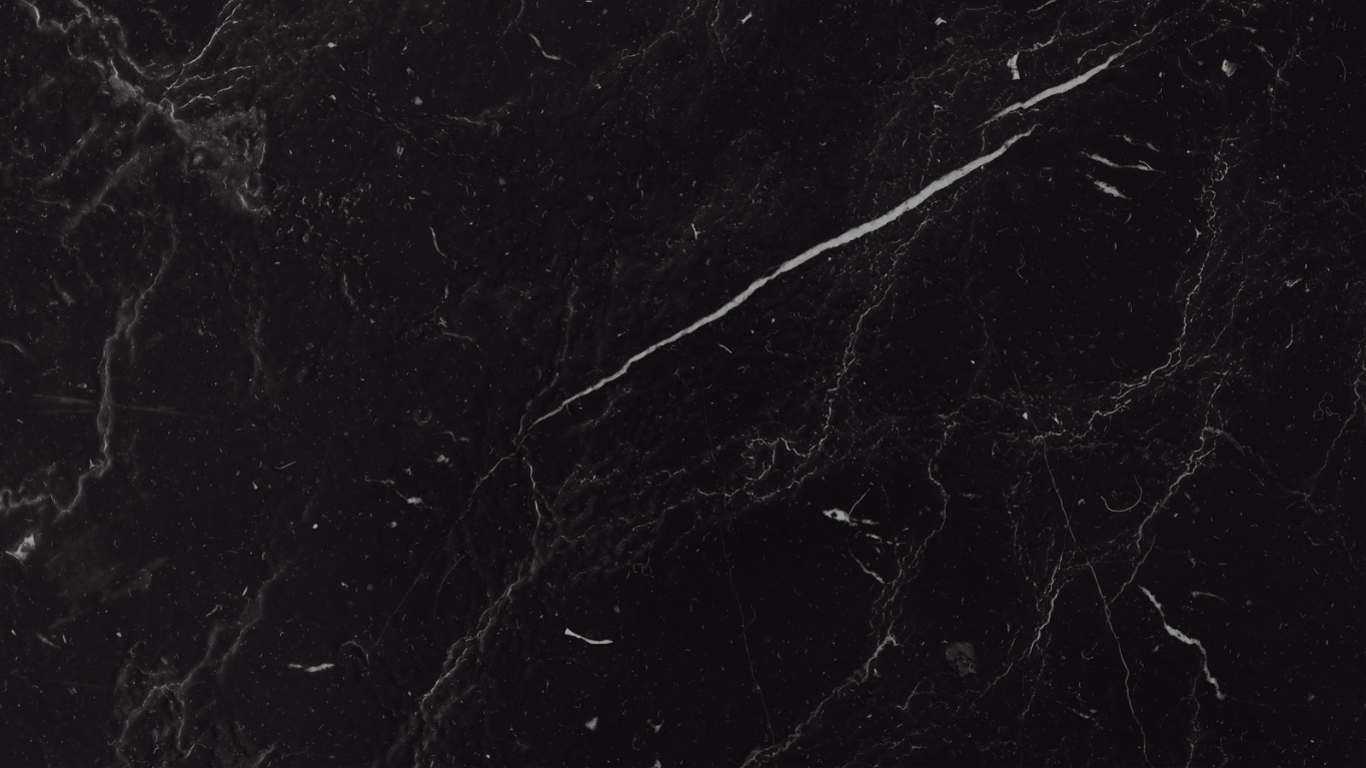
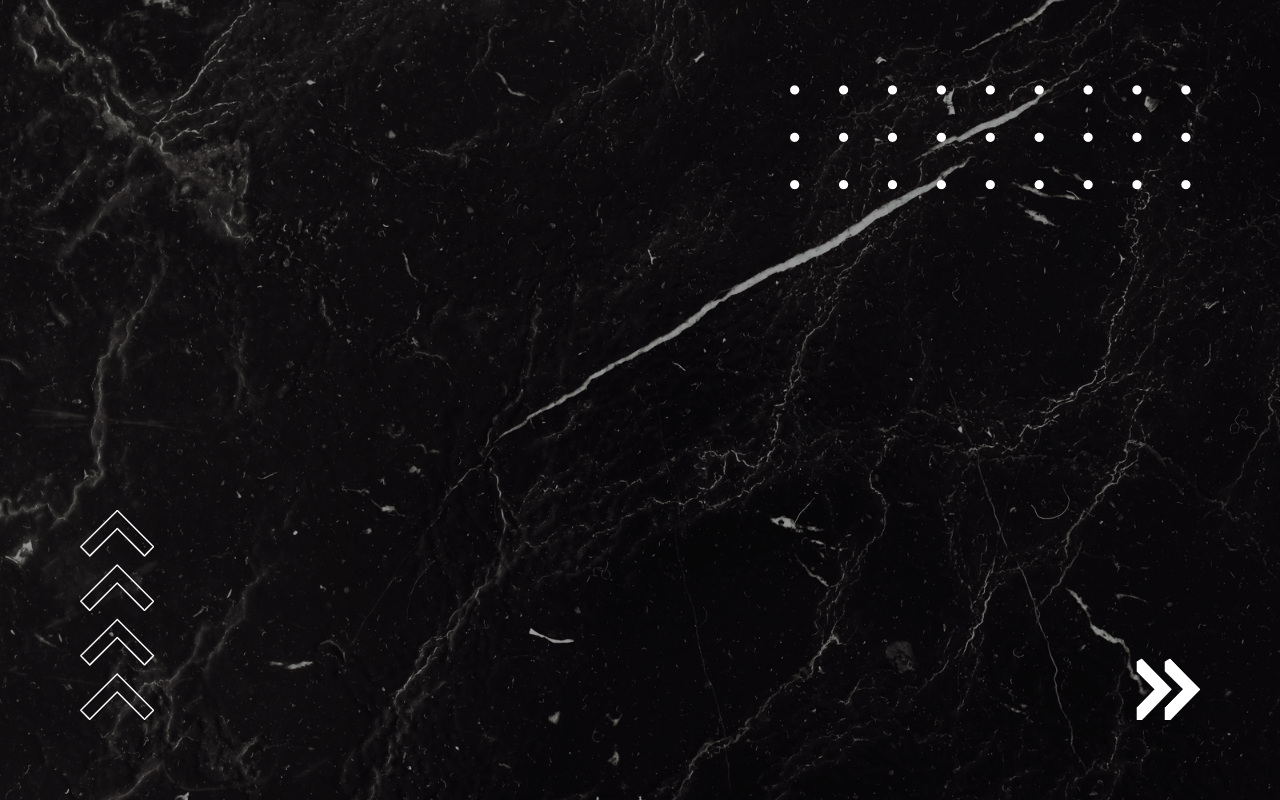
responsive establecido

diff --git a/src/components/WelcomeMessage.jsx b/src/components/WelcomeMessage.jsx
@@ -1,10 +1,12 @@
 import crossIcon from "../assets/images/cross.png";
+import ubicationIcon from "../assets/images/ubication.png";
 
 const WelcomeMessage = () => {
   return (
-    <header>
+    <header className="position-relative">
+      <div className="position-absolute top-50 start-50 translate-middle w-100">
       <div className="mt-4">
-        <div className="d-flex justify-content-center">
+        <div className="d-flex justify-content-center align-items-center">
           <img
             src={crossIcon}
             className="cross-icon rounded-3 d-block"
@@ -13,11 +15,21 @@ const WelcomeMessage = () => {
         </div>
         <h1 className="title fw-bold">Iglesia Vida Abundante</h1>
       </div>
-      <h2>
+      <h2 className="fs-3">
         &quot;Yo (Jesús) he venido para que tengan vida, y para que la tengan en
         abundancia&quot;
       </h2>
-      <h2>Juan 10:10 (la Biblia)</h2>
+      <h2 className="fs-4">Juan 10:10 (la Biblia)</h2>
+      <h3 className="church-description text-uppercase">
+        Iglesia cristiana evangélica
+      </h3>
+      <div className="d-flex justify-content-center align-items-center">
+        <img src={ubicationIcon} className="ubication-icon" alt="" />
+        <h4 className="mb-0 ubication-text fw-lighter">
+          México 659, San Miguel de Tucumán, Tucumán, Argentina
+        </h4>
+      </div>
+      </div>
     </header>
   );
 };

diff --git a/src/components/Information.jsx b/src/components/Information.jsx
@@ -1,21 +1,9 @@
-import ubicationIcon from "../assets/images/ubication.png";
 import communityIcon from "../assets/images/community.png";
 
 const Information = () => {
   return (
-    <section className="information">
-      <hr />
-      <h3 className="church-description text-uppercase">
-        Iglesia cristiana evangélica
-      </h3>
-      <hr />
-      <div className="d-flex justify-content-center align-items-center">
-        <img src={ubicationIcon} className="ubication-icon" alt="" />
-        <h4 className="mb-0 ubication-text">
-          México 659, San Miguel de Tucumán, Tucumán, Argentina
-        </h4>
-      </div>
-      <hr />
+    <section className="information position-relative">
+      <div className="position-absolute top-50 start-50 translate-middle w-100">
       <img src={communityIcon} className="meetings-icon" alt="" />
       <h6 className="fs-3">Reuniones:</h6>
       <div
@@ -30,6 +18,7 @@ const Information = () => {
         <p className="meeting-special fs-2 rounded-0 px-3">
           Santa Cena: 2° DOM de cada mes
         </p>
+      </div>
       </div>
     </section>
   );

diff --git a/src/components/Links.jsx b/src/components/Links.jsx
@@ -1,7 +1,13 @@
+import socialMedia from '../assets/images/socialmedia.png'
+
 const Links = () => {
   return (
-    <section className="links d-flex justify-content-center">
+    <section className="links position-relative">
+      <div className="position-absolute top-50 start-50 translate-middle d-flex justify-content-center w-100">
       <ul className="list-group w-50">
+      <div className="d-flex justify-content-center">
+      <img src={socialMedia} className="socialmedia-icon pb-2" alt="" />
+      </div>
         <a
           href="https://www.facebook.com/VidaAbundanteTuc"
           target="_blank"
@@ -40,7 +46,7 @@ const Links = () => {
           rel="noreferrer"
           className="fs-1 fw-bold link-facebookradio"
         >
-          Facebook Radio La Voz Amiga
+          Facebook Radio
         </a>
         <a
           href="http://chino.republicahosting.com:8364/live"
@@ -59,6 +65,7 @@ const Links = () => {
           App Radio
         </a>
       </ul>
+      </div>
     </section>
   );
 };

diff --git a/src/App.css b/src/App.css
@@ -28,6 +28,10 @@ body {
   text-shadow: 4px 4px 6px rgba(0, 0, 0, 0.5);
 }
 
+header, .information, .links{
+  height: 100vh;
+}
+
 h1,
 h2,
 h3,
@@ -114,7 +118,7 @@ a:hover::before {
 }
 
 .cross-icon {
-  height: 100px;
+  height: 90px;
   box-shadow: 4px 14px 33px 0px rgba(0, 0, 0, 0.75);
   -webkit-box-shadow: 4px 14px 33px 0px rgba(0, 0, 0, 0.75);
   -moz-box-shadow: 4px 14px 33px 0px rgba(0, 0, 0, 0.75);
@@ -126,6 +130,10 @@ a:hover::before {
 
 .meetings-icon {
   height: 100px;
+}
+
+.socialmedia-icon{
+  width: 100px;
 }
 
 .ubication-text {
@@ -169,3 +177,15 @@ h6 {
 .meeting-special {
   background-color: #cf0000;
 }
+
+@media (min-width: 768px) and (max-width: 991.98px) {
+  body{
+    background-image: url(./assets/images/background-tablet.png);
+  }
+ }
+
+ @media (max-width: 767.98px) {
+  body{
+    background-image:  url(./assets/images/background-image-movil.png);
+  }
+ }
